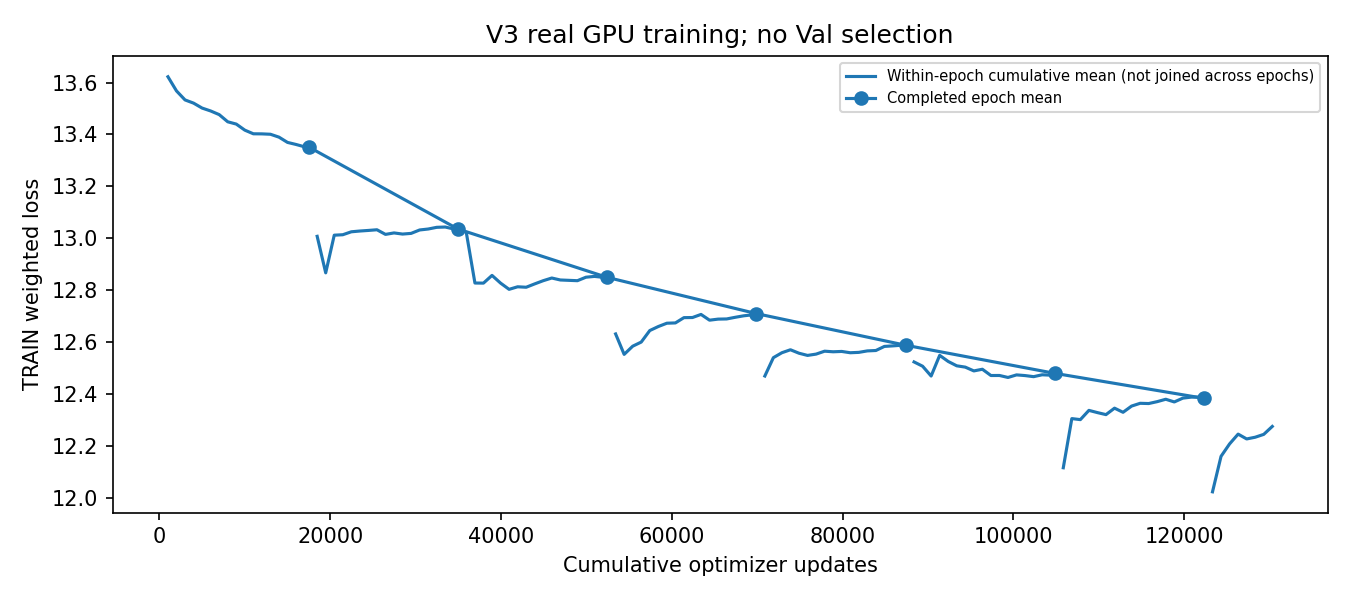
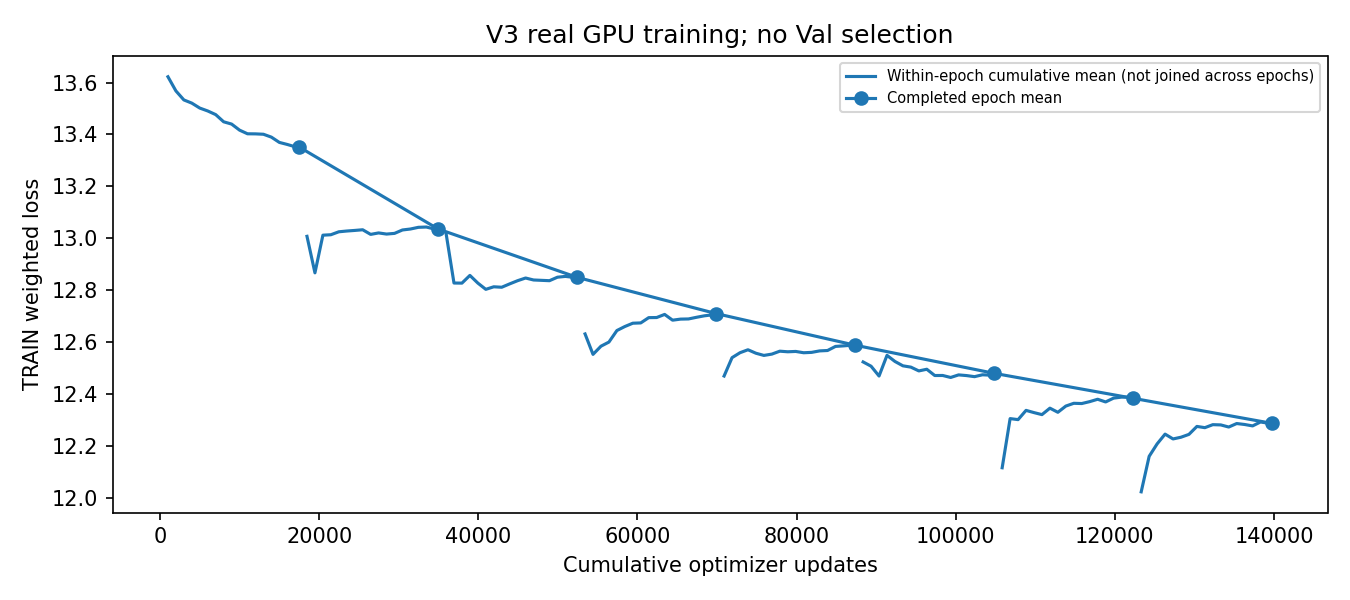
reports(v3): record eight completed full training epochs

diff --git a/reports/unified_pgvb/v3_full_training/REPORT_zh.md b/reports/unified_pgvb/v3_full_training/REPORT_zh.md
@@ -2,7 +2,7 @@
 
 完整TRAIN输入21878条；本阶段拟合17473条、物理目标留出4405条，物理分组重叠0。初始化V2曾使用TRAIN，内部留出不是完全未见泛化。
 
-当前已完成完整Epoch：7；训练结束：False。
+当前已完成完整Epoch：8；训练结束：False。
 
 Geometry和轻量视觉模块训练，BERT/SigLIP2冻结并读取缓存；seed42，原权重保留。四小时累计训练预算，至少三轮后连续两轮相对Loss改善<0.5%提前停止。未修改Stop=0.3、1mm守卫或Horizon。
 
@@ -17,6 +17,7 @@ Geometry和轻量视觉模块训练，BERT/SigLIP2冻结并读取缓存；seed42
 |5|17473|12.587823|771.58|0.144|
 |6|17473|12.479380|762.26|0.144|
 |7|17473|12.383111|757.38|0.144|
+|8|17473|12.286377|766.43|0.144|
 
 ![训练Loss](training_loss.png)
 ![Loss分量](loss_components.png)
